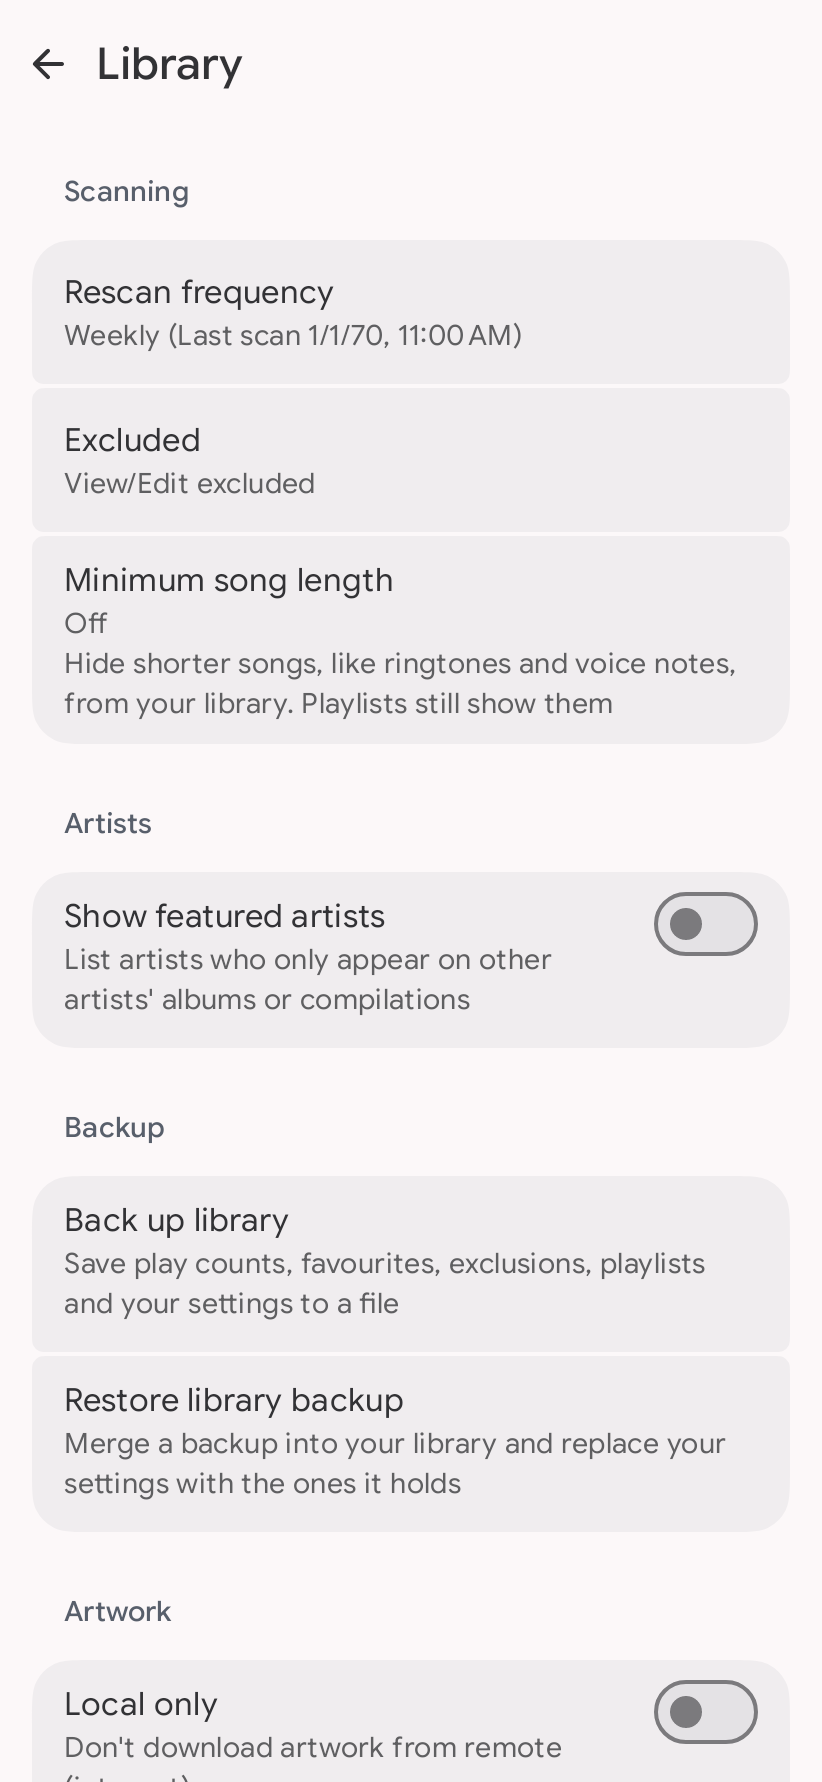
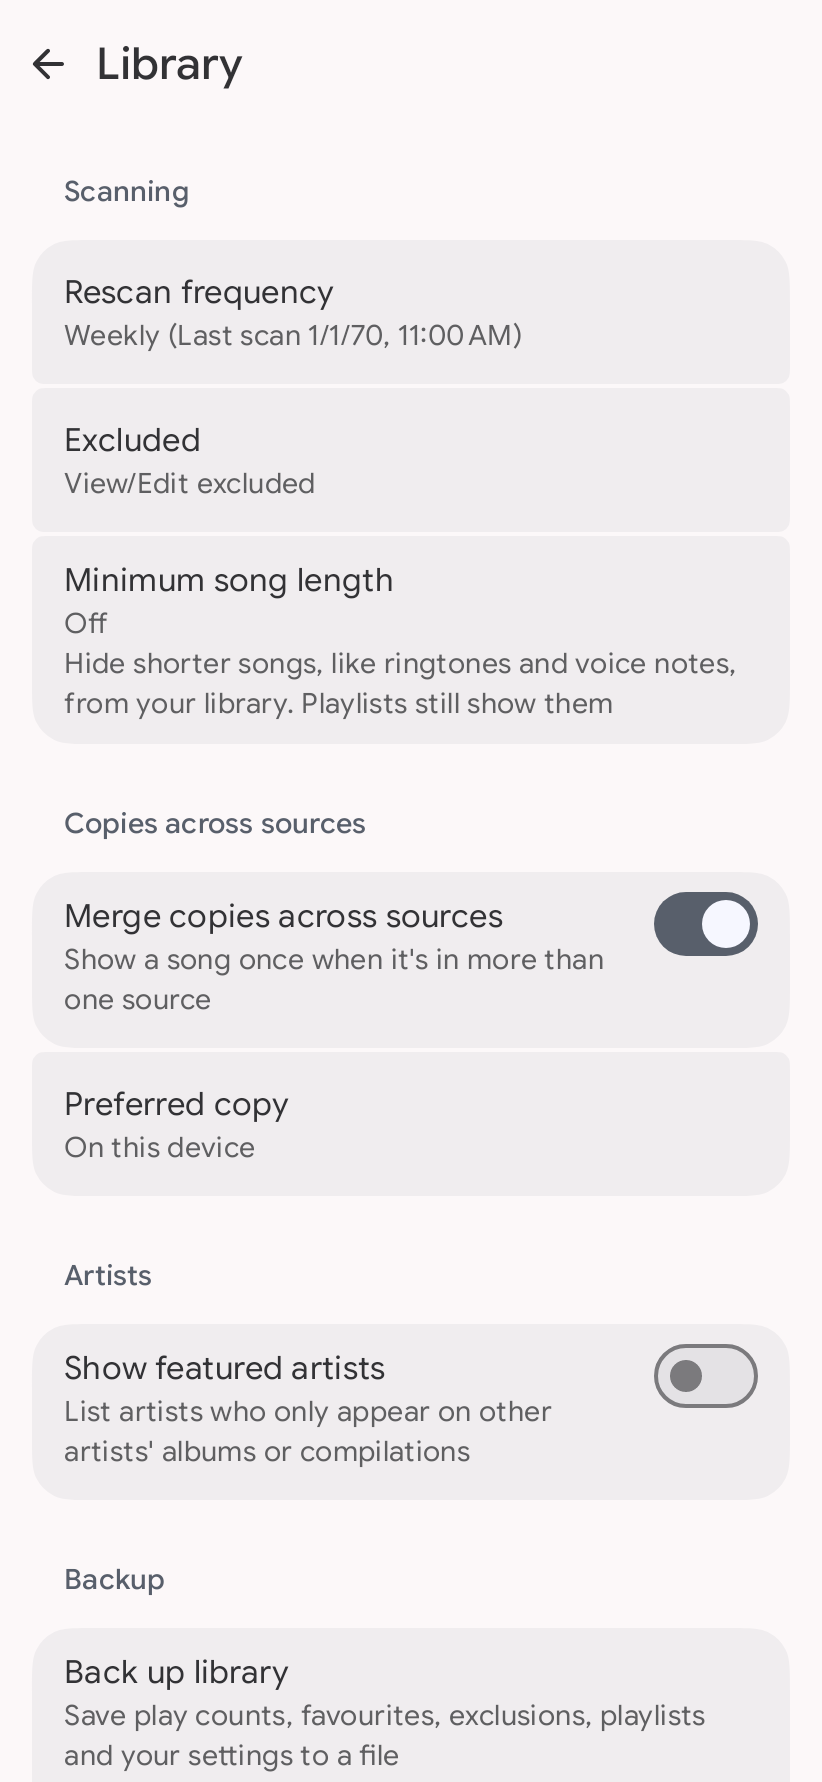
feat(settings): Copies across sources settings
Adds a Library group with the Merge copies switch and the Preferred copy choice, disabled with a hint while merging is off, and includes both in backups.

Changelog: see fragment 1069-merge-copies-settings

diff --git a/shared/src/iosMain/kotlin/com/simplecityapps/shuttle/shared/settings/IosSettingsCatalog.kt b/shared/src/iosMain/kotlin/com/simplecityapps/shuttle/shared/settings/IosSettingsCatalog.kt
@@ -1,8 +1,10 @@
 package com.simplecityapps.shuttle.shared.settings
 
+import com.simplecityapps.mediaprovider.settings.LibrarySettings
 import com.simplecityapps.playback.dsp.replaygain.MAX_REPLAY_GAIN_PREAMP_DB
 import com.simplecityapps.playback.dsp.replaygain.ReplayGainMode
 import com.simplecityapps.playback.settings.PlaybackSettings
+import com.simplecityapps.shuttle.model.PreferredCopy
 import com.simplecityapps.shuttle.settings.AppearanceSettings
 import com.simplecityapps.shuttle.settings.ArtistSettings
 import com.simplecityapps.shuttle.settings.ArtworkSettings
@@ -136,6 +138,26 @@ object IosSettingsCatalog : SettingsCatalog {
                         title = SettingsString.PREF_MEDIA_RESCAN_TITLE,
                         summary = SettingsString.PREF_MEDIA_RESCAN_SUMMARY,
                         key = "pref_media_rescan"
+                    )
+                )
+            ),
+            SettingsGroup(
+                title = SettingsString.SETTINGS_GROUP_COPIES,
+                items = listOf(
+                    SettingItem.Switch(
+                        setting = LibrarySettings.MergeCopies,
+                        title = SettingsString.PREF_MERGE_COPIES_TITLE,
+                        summary = SettingsString.PREF_MERGE_COPIES_SUMMARY
+                    ),
+                    SettingItem.Choice(
+                        setting = LibrarySettings.PreferredCopy,
+                        title = SettingsString.PREF_PREFERRED_COPY_TITLE,
+                        options = listOf(
+                            ChoiceOption(PreferredCopy.Local, SettingsString.PREF_PREFERRED_COPY_LOCAL, description = SettingsString.PREF_PREFERRED_COPY_LOCAL_DESCRIPTION),
+                            ChoiceOption(PreferredCopy.BestQuality, SettingsString.PREF_PREFERRED_COPY_BEST_QUALITY, description = SettingsString.PREF_PREFERRED_COPY_BEST_QUALITY_DESCRIPTION)
+                        ),
+                        dependsOn = LibrarySettings.MergeCopies,
+                        disabledHint = SettingsString.PREF_PREFERRED_COPY_MERGING_OFF
                     )
                 )
             ),

diff --git a/android/app/src/main/java/com/simplecityapps/shuttle/ui/screens/settings/model/AndroidSettingsCatalog.kt b/android/app/src/main/java/com/simplecityapps/shuttle/ui/screens/settings/model/AndroidSettingsCatalog.kt
@@ -9,6 +9,7 @@ import com.simplecityapps.playback.settings.PlaybackSettings
 import com.simplecityapps.shuttle.BuildConfig
 import com.simplecityapps.shuttle.entitlement.ProFeature
 import com.simplecityapps.shuttle.model.MinTrackLength
+import com.simplecityapps.shuttle.model.PreferredCopy
 import com.simplecityapps.shuttle.settings.Accent
 import com.simplecityapps.shuttle.settings.AppearanceSettings
 import com.simplecityapps.shuttle.settings.ArtistSettings
@@ -282,6 +283,26 @@ object AndroidSettingsCatalog : SettingsCatalog {
                             ChoiceOption(MinTrackLength.ThirtySeconds, SettingsString.PREF_MIN_TRACK_LENGTH_30_SECONDS),
                             ChoiceOption(MinTrackLength.SixtySeconds, SettingsString.PREF_MIN_TRACK_LENGTH_60_SECONDS)
                         )
+                    )
+                )
+            ),
+            SettingsGroup(
+                title = SettingsString.SETTINGS_GROUP_COPIES,
+                items = listOf(
+                    SettingItem.Switch(
+                        setting = LibrarySettings.MergeCopies,
+                        title = SettingsString.PREF_MERGE_COPIES_TITLE,
+                        summary = SettingsString.PREF_MERGE_COPIES_SUMMARY
+                    ),
+                    SettingItem.Choice(
+                        setting = LibrarySettings.PreferredCopy,
+                        title = SettingsString.PREF_PREFERRED_COPY_TITLE,
+                        options = listOf(
+                            ChoiceOption(PreferredCopy.Local, SettingsString.PREF_PREFERRED_COPY_LOCAL, description = SettingsString.PREF_PREFERRED_COPY_LOCAL_DESCRIPTION),
+                            ChoiceOption(PreferredCopy.BestQuality, SettingsString.PREF_PREFERRED_COPY_BEST_QUALITY, description = SettingsString.PREF_PREFERRED_COPY_BEST_QUALITY_DESCRIPTION)
+                        ),
+                        dependsOn = LibrarySettings.MergeCopies,
+                        disabledHint = SettingsString.PREF_PREFERRED_COPY_MERGING_OFF
                     )
                 )
             ),

diff --git a/android/app/src/main/java/com/simplecityapps/shuttle/ui/text/SettingsStringResources.kt b/android/app/src/main/java/com/simplecityapps/shuttle/ui/text/SettingsStringResources.kt
@@ -128,6 +128,15 @@ val SettingsString.resId: Int
         SettingsString.SETTINGS_GROUP_ARTISTS -> R.string.settings_group_artists
         SettingsString.PREF_SHOW_CREDITED_ARTISTS_TITLE -> R.string.pref_show_credited_artists_title
         SettingsString.PREF_SHOW_CREDITED_ARTISTS_SUMMARY -> R.string.pref_show_credited_artists_summary
+        SettingsString.SETTINGS_GROUP_COPIES -> R.string.settings_group_copies
+        SettingsString.PREF_MERGE_COPIES_TITLE -> R.string.pref_merge_copies_title
+        SettingsString.PREF_MERGE_COPIES_SUMMARY -> R.string.pref_merge_copies_summary
+        SettingsString.PREF_PREFERRED_COPY_TITLE -> R.string.pref_preferred_copy_title
+        SettingsString.PREF_PREFERRED_COPY_MERGING_OFF -> R.string.pref_preferred_copy_merging_off
+        SettingsString.PREF_PREFERRED_COPY_LOCAL -> R.string.pref_preferred_copy_local
+        SettingsString.PREF_PREFERRED_COPY_LOCAL_DESCRIPTION -> R.string.pref_preferred_copy_local_description
+        SettingsString.PREF_PREFERRED_COPY_BEST_QUALITY -> R.string.pref_preferred_copy_best_quality
+        SettingsString.PREF_PREFERRED_COPY_BEST_QUALITY_DESCRIPTION -> R.string.pref_preferred_copy_best_quality_description
         SettingsString.PREF_FILE_LOGGING_TITLE -> R.string.pref_file_logging_title
         SettingsString.PREF_FILE_LOGGING_SUBTITLE -> R.string.pref_file_logging_subtitle
         SettingsString.PREF_SHARE_DEBUG_LOGS_TITLE -> R.string.pref_share_debug_logs_title

diff --git a/android/app/src/test/java/com/simplecityapps/shuttle/ui/screens/settings/SettingsViewStateTest.kt b/android/app/src/test/java/com/simplecityapps/shuttle/ui/screens/settings/SettingsViewStateTest.kt
@@ -1,5 +1,6 @@
 package com.simplecityapps.shuttle.ui.screens.settings
 
+import com.simplecityapps.mediaprovider.settings.LibrarySettings
 import com.simplecityapps.playback.settings.PlaybackSettings
 import com.simplecityapps.shuttle.settings.AppearanceSettings
 import com.simplecityapps.shuttle.settings.DebugSettings
@@ -122,6 +123,23 @@ class SettingsViewStateTest {
             .none { it.item.key == PlaybackSettings.UsbDacDirectOutput.key } shouldBe true
         destination(SettingsDestination.PlaybackAndSound, sdkInt = 34).rows()
             .any { it.item.key == PlaybackSettings.UsbDacDirectOutput.key } shouldBe true
+    }
+
+    @Test
+    fun `the preferred copy is enabled while copies are merged`() {
+        val preferred = destination(SettingsDestination.Library).row(LibrarySettings.PreferredCopy.key) as Row.Choice
+
+        preferred.enabled shouldBe true
+        preferred.override shouldBe null
+    }
+
+    @Test
+    fun `the preferred copy is disabled with a hint while merging is off`() {
+        val state = SettingsUiState(values = mapOf(LibrarySettings.MergeCopies.key to false))
+        val preferred = destination(SettingsDestination.Library, state).row(LibrarySettings.PreferredCopy.key) as Row.Choice
+
+        preferred.enabled shouldBe false
+        preferred.override shouldBe SettingsString.PREF_PREFERRED_COPY_MERGING_OFF
     }
 
     @Test

diff --git a/android/presentation/src/commonMain/kotlin/com/simplecityapps/shuttle/ui/screens/settings/model/SettingItem.kt b/android/presentation/src/commonMain/kotlin/com/simplecityapps/shuttle/ui/screens/settings/model/SettingItem.kt
@@ -76,7 +76,9 @@ data class SettingOverride(
 data class ChoiceOption<T>(
     val value: T,
     val label: StringKey,
-    val proFeature: ProFeature? = null
+    val proFeature: ProFeature? = null,
+    /** A line under the label saying what the option does. */
+    val description: StringKey? = null
 )
 
 /**
@@ -116,6 +118,8 @@ sealed interface SettingItem {
         override val dependsOn: Setting<Boolean>? = null,
         /** Only while its switch's row is shown: a switch hidden below its API level takes nothing over. */
         val overriddenBy: SettingOverride? = null,
+        /** Shown in place of the value while the row is disabled by [dependsOn]. */
+        val disabledHint: StringKey? = null,
         /** The row and the Settings root add the date of the last library scan to this choice's label. */
         val showsLastScan: Boolean = false
     ) : SettingItem {

diff --git a/android/presentation/src/commonMain/kotlin/com/simplecityapps/shuttle/ui/text/SettingsString.kt b/android/presentation/src/commonMain/kotlin/com/simplecityapps/shuttle/ui/text/SettingsString.kt
@@ -124,6 +124,15 @@ enum class SettingsString : StringKey {
     SETTINGS_GROUP_ARTISTS,
     PREF_SHOW_CREDITED_ARTISTS_TITLE,
     PREF_SHOW_CREDITED_ARTISTS_SUMMARY,
+    SETTINGS_GROUP_COPIES,
+    PREF_MERGE_COPIES_TITLE,
+    PREF_MERGE_COPIES_SUMMARY,
+    PREF_PREFERRED_COPY_TITLE,
+    PREF_PREFERRED_COPY_MERGING_OFF,
+    PREF_PREFERRED_COPY_LOCAL,
+    PREF_PREFERRED_COPY_LOCAL_DESCRIPTION,
+    PREF_PREFERRED_COPY_BEST_QUALITY,
+    PREF_PREFERRED_COPY_BEST_QUALITY_DESCRIPTION,
     PREF_FILE_LOGGING_TITLE,
     PREF_FILE_LOGGING_SUBTITLE,
     PREF_SHARE_DEBUG_LOGS_TITLE,

diff --git a/android/app/src/main/java/com/simplecityapps/shuttle/ui/screens/settings/SettingsViewState.kt b/android/app/src/main/java/com/simplecityapps/shuttle/ui/screens/settings/SettingsViewState.kt
@@ -199,7 +199,7 @@ private fun <T> choiceRow(
     return SettingsDestinationViewState.Row.Choice(
         item = item,
         label = item.currentLabel(uiState),
-        override = override?.hint,
+        override = override?.hint ?: item.disabledHint.takeIf { !enabled },
         lastScan = uiState.lastScanDate.takeIf { item.showsLastScan },
         enabled = enabled && override == null,
         selectedIndex = item.options.indexOfFirst { it.value == current }

diff --git a/android/app/src/main/java/com/simplecityapps/shuttle/backup/BackedUpSettings.kt b/android/app/src/main/java/com/simplecityapps/shuttle/backup/BackedUpSettings.kt
@@ -55,6 +55,8 @@ internal object BackedUpSettings {
         LibrarySettings.RescanFrequency,
         LibrarySettings.ReportPlaybackToServer,
         LibrarySettings.MinTrackLength,
+        LibrarySettings.MergeCopies,
+        LibrarySettings.PreferredCopy,
         StreamingSettings.UnmeteredQuality,
         StreamingSettings.MeteredQuality,
         StreamingSettings.DownloadQuality,
